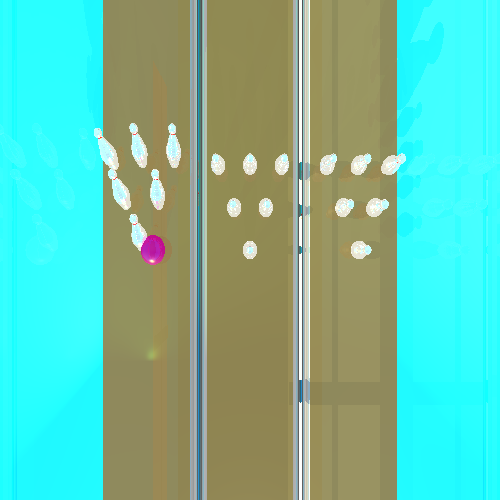
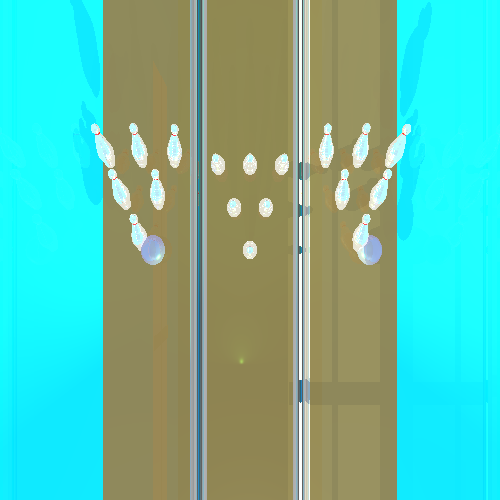
final picture

diff --git a/unitTests/finalPicture/OurPictureMP1.java b/unitTests/finalPicture/OurPictureMP1.java
@@ -46,7 +46,7 @@ public class OurPictureMP1 {
         //_scene._lights.add(leftBottomSpotLight);
 
 
-        SpotLight trySomething2 = new SpotLight(new Color(102, 255, 51), new Point(4800, 240, 30), new Vector(1, 0, 0.2));
+        SpotLight trySomething2 = new SpotLight(new Color(102, 255, 51), new Point(4800, 20, 12), new Vector(1, 0, 0.02));
         _scene._lights.add(trySomething2);
 
         createBallHolder(2500, -150, 3);
@@ -71,7 +71,7 @@ public class OurPictureMP1 {
 
     private void createBallHolder(int ballHolderX, int ballHolderY, int ballHolderZ) {
 
-        Material ballHolderMat = new Material().setShininess(19).setKt(0.95).setKd(0.2).setKr(0.1).setKs(1);
+        Material ballHolderMat = new Material().setShininess(19).setKd(0.2).setKr(0.1).setKs(1);
         Color ballHolderColor = new Color(140, 140, 140);
         Geometry bottomBallHolder = new Polygon(new Point(ballHolderX, ballHolderY, ballHolderZ), new Point(ballHolderX + 180, ballHolderY, ballHolderZ), new Point(ballHolderX + 180, ballHolderY - 100, ballHolderZ), new Point(ballHolderX, ballHolderY - 100, ballHolderZ))
                 .setMaterial(ballHolderMat).setEmission(ballHolderColor);
@@ -146,12 +146,13 @@ public class OurPictureMP1 {
         BowlingPin bowlingPin1 = new BowlingPin(new Ray(new Point(firstX, y, height), new Vector(1, 0, zVector)), bowlPinMat, bowlingMain, new Color(RED));
         BowlingPin bowlingPin2 = new BowlingPin(new Ray(new Point(firstX + distanceBetweenPins, y - distanceBetweenPins / 2d, height), new Vector(1, -0.2,zVector)), bowlPinMat, bowlingMain, new Color(RED));
         BowlingPin bowlingPin3 = new BowlingPin(new Ray(new Point(firstX + distanceBetweenPins, y + distanceBetweenPins / 2d, height), new Vector(1, 0.2, zVector)), bowlPinMat, bowlingMain, new Color(RED));
-        BowlingPin bowlingPin4 = new BowlingPin(new Ray(new Point(firstX + 2 * distanceBetweenPins, y - distanceBetweenPins, height), new Vector(1, -0.2, zVector)), bowlPinMat, bowlingMain, new Color(RED));
+        BowlingPin bowlingPin4 = new BowlingPin(new Ray(new Point(firstX + 2 * distanceBetweenPins, y - distanceBetweenPins, height), new Vector(1, -0.3, zVector)), bowlPinMat, bowlingMain, new Color(RED));
         BowlingPin bowlingPin5 = new BowlingPin(new Ray(new Point(firstX + 2 * distanceBetweenPins, y, height), new Vector(1, 0, zVector)), bowlPinMat, bowlingMain, new Color(RED));
-        BowlingPin bowlingPin6 = new BowlingPin(new Ray(new Point(firstX + 2 * distanceBetweenPins, y + distanceBetweenPins, 0), new Vector(1, 0.3, zVector)), bowlPinMat, bowlingMain, new Color(RED));
+        BowlingPin bowlingPin6 = new BowlingPin(new Ray(new Point(firstX + 2 * distanceBetweenPins, y + distanceBetweenPins, height), new Vector(1, 0.2, zVector)), bowlPinMat, bowlingMain, new Color(RED));
         Geometry ball= new Sphere(new Point(firstX,y-25,25),25)
-                .setEmission(new Color(179, 0, 134)).setMaterial(new Material().setShininess(25).setKs(1).setKd(0.25).setKr(0.1));
+                .setEmission(new Color(148, 148, 184)).setMaterial(new Material().setShininess(25).setKs(1).setKd(0.25).setKr(0.1));
         _scene._geometries.add(bowlingPin1, bowlingPin2, bowlingPin3, bowlingPin4, bowlingPin5, bowlingPin6,ball);
+        //_scene._geometries.add(bowlingPin1, bowlingPin2, bowlingPin3, bowlingPin5, bowlingPin4,ball);
 
     }
 
@@ -176,7 +177,7 @@ public class OurPictureMP1 {
         Polygon leftWall2 = (Polygon) new Polygon(new Point(farX, 340, 1500), new Point(lengthToX, 340, 1500), new Point(lengthToX, 340, 0), new Point(farX, 340, 0)).setEmission(wallColor)
                 .setMaterial(wallMat);
         Polygon leftWall3 = (Polygon) new Polygon(new Point(closeX, 340, 1500), new Point(farX, 340, 1500), new Point(farX, 340, topZ), new Point(closeX, 340, topZ)).setEmission(wallColor)
-                .setMaterial(wallMat);
+                .setMaterial(wallMat.setKd(0.25).setKr(0.1));
         Polygon leftWall4 = (Polygon) new Polygon(new Point(closeX, 340, bottomZ), new Point(farX, 340, bottomZ), new Point(farX, 340, 0), new Point(closeX, 340, 0)).setEmission(wallColor)
                 .setMaterial(wallMat);
         Geometry verticalStick = new Polygon(new Point((farX + closeX) / 2d - 20, 339, topZ), new Point((farX + closeX) / 2d + 20, 339, topZ), new Point((farX + closeX) / 2d + 20, 339, bottomZ), new Point((farX + closeX) / 2d - 20, 339, bottomZ))
